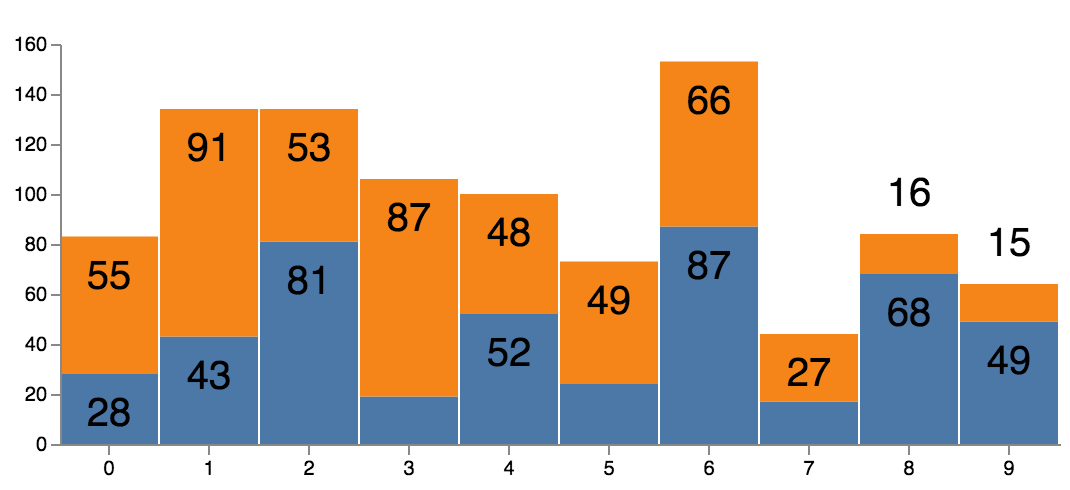
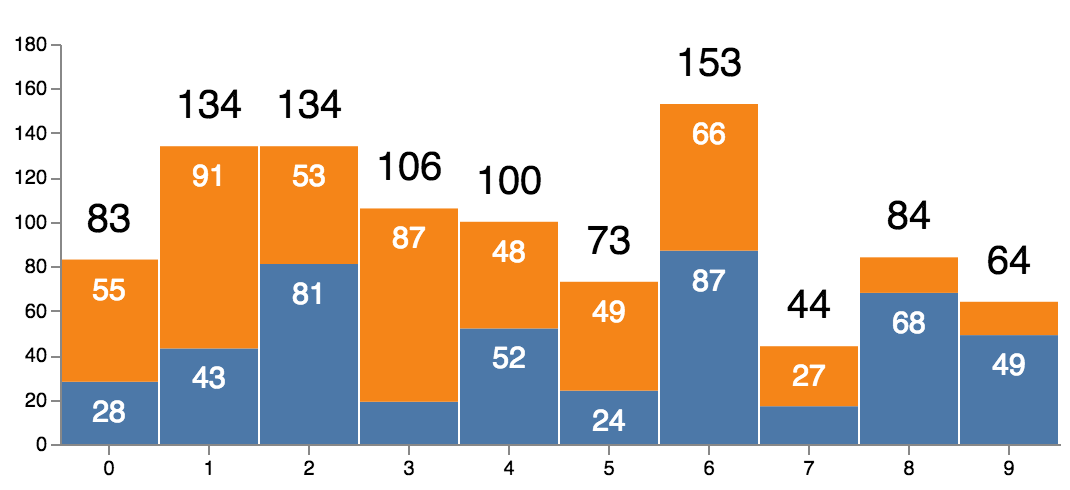
Fix stack bar example; update readme

diff --git a/src/Label.js b/src/Label.js
@@ -40,9 +40,9 @@ Label.Definition = {
     { name: 'avoidBaseMark', type: 'boolean', default: true },
     { name: 'allowOutside', type: 'boolean', defalut: false },
     { name: 'size', type: 'number', array: true, length: [2] },
-    { name: 'offsets', type: 'number', array: true, default: [1] },
+    { name: 'offset', type: 'number', array: true, default: [1] },
     { name: 'sort', type: 'field' },
-    { name: 'anchors', type: 'string', array: true, default: defaultAnchors },
+    { name: 'anchor', type: 'string', array: true, default: defaultAnchors },
     { name: 'avoidMarks', type: 'data', array: true },
     {
       name: 'as',
@@ -69,8 +69,8 @@ prototype.transform = function(_, pulse) {
   var data = pulse.materialize(pulse.SOURCE).source,
     labelLayout = this.value,
     as = _.as ? _.as : Output,
-    offsets = _.offsets ? _.offsets : [1],
-    anchors = _.anchors ? _.anchors : defaultAnchors,
+    offsets = _.offset ? _.offset : [1],
+    anchors = _.anchor ? _.anchor : defaultAnchors,
     numberPositions = offsets.length > anchors.length ? offsets.length : anchors.length;
 
   // configure layout

diff --git a/src/LabelLayout.js b/src/LabelLayout.js
@@ -98,10 +98,10 @@ export default function() {
       var n = _.length;
       offsets = new Float64Array(len);
       for (var i = 0; i < n; i++) {
-        offsets[i] = _[i];
+        offsets[i] = _[i] ? _[i] : 0;
       }
       for (i = n; i < len; i++) {
-        offsets[i] = offsets[n - 1];
+        offsets[i] = offsets[n - 1] ? offsets[n - 1] : 0;
       }
       return label;
     } else {

diff --git a/demo.js b/demo.js
@@ -10,11 +10,11 @@ var specName
 
 // ---------line---------
 // = 'line_connected_scatter';
-= 'line_end';
+// = 'line_end';
 // = 'line';
 
 // ---------rect---------
-// = 'rect_stack';
+= 'rect_stack';
 // = 'rect';
 
 // -------scatter--------

diff --git a/README.md b/README.md
@@ -6,18 +6,18 @@ Vega-Label is a post-encoding transform for [Vega](https://github.com/vega/vega)
 
 ## Syntax for label transform
 
-```
+```json
 "transform": [
   {
     "type": "label",
-    "size": [800, 500]
-    "offsets": [ 1, 2, -1 ],
+    "size": [800, 500],
+    "anchor": [ "middle", "right" ],
+    "offset": [ null, 2, -1 ],
     "sort": { "field": "datum.year" },
-    "anchors": [ "top", "right" ]
     "avoidMarks": [ "basePoint", "baseLine" ],
     "allowOutside": true,
     "avoidBaseMark": false,
-    "lineAnchor": 'end'
+    "lineAnchor": "end"
   }
 ]
 ```
@@ -26,17 +26,17 @@ Vega-Label is a post-encoding transform for [Vega](https://github.com/vega/vega)
 
 - `size`: size of the chart in format `[width, height]`. **This size have to match with the chart size**
 
-- `anchors`: list of anchor points of labels to its mark's bounding box
+- `anchor` and `offset` a parallel array of anchor points and offset values.
+  - `anchor`: list of anchor points of labels to its mark's bounding box
+    - From the example above, for each label, Vega-Label will try to place it at the `middle` first, relative to its mark.
+    - If it collide with some other mark or label, Vega-Label will try to place it at the `right`, relative to its mark.
 
-  - From the example above, for each label, Vega-Label will try to place it at the `top` first, relative to its mark.
-  - If it collide with some other mark or label, Vega-Label will try to place it at the `right`, relative to its mark.
-
-- `offsets`: list of offset values from the bounding box of the **base mark**.
-
-  - From the example above, Vega-Label will try to place label with offset value 1 first.
-  - If it cannot place the label, Vega-Label will try to place label with offset value 2.
-  - If it cannot place the label, Vega-Label will try to place label with offset value 1 inside its mark.
-    - **Note**: label will be placed inside its mark if offset is negative.
+  - `offset`: list of offset values from the bounding box of the **base mark**.
+    - From the example above, Vega-Label will try to place label with no offset.
+      - **Note**: if the parallel anchor is `middle`, the offset value should be `null`. Otherwise, the value is ignored.
+    - If it cannot place the label, Vega-Label will try to place label with offset value 2.
+    - If it cannot place the label, Vega-Label will try to place label with offset value 1 inside its mark.
+      - **Note**: label will be placed inside its mark if offset is negative.
 
 - `avoidMarks`: list of data of mark; labels will not collide with these marks
 
@@ -91,10 +91,19 @@ This example is inspired by Vega-Lite [Carbon Dioxide in the Atmosphere](https:/
 
 ![rect_stack](pics/label_rect_stack.png)
 
-Rect is used as the base mark to label, and label positions is set to the top of each bar (inside then outside)
+Rect is used as the base mark to label. There is 2 sets of labels in this chart.
+The first label is the overall height of each combined bars, and label positions is set to the outer top of each bar.
+The second label is the height of each bar, and label position is set to the inner top of each bar
 Here is the [Vega Specification](./spec/label_rect_stack.vg.json)
 
 This example is inspired by Vega [Stacked Bar Chart Example](https://vega.github.io/vega/examples/stacked-bar-chart/)
+
+### In bar chart - Bar Chart Example
+
+![rect](pics/label_rect.png)
+
+Rect is used as the base mark to label. The label position is set to inner right of each bar as default, and outer right if bar is too small.
+Here is the [Vega Specification](./spec/label_rect.vg.json)
 
 ## With symbol
 
